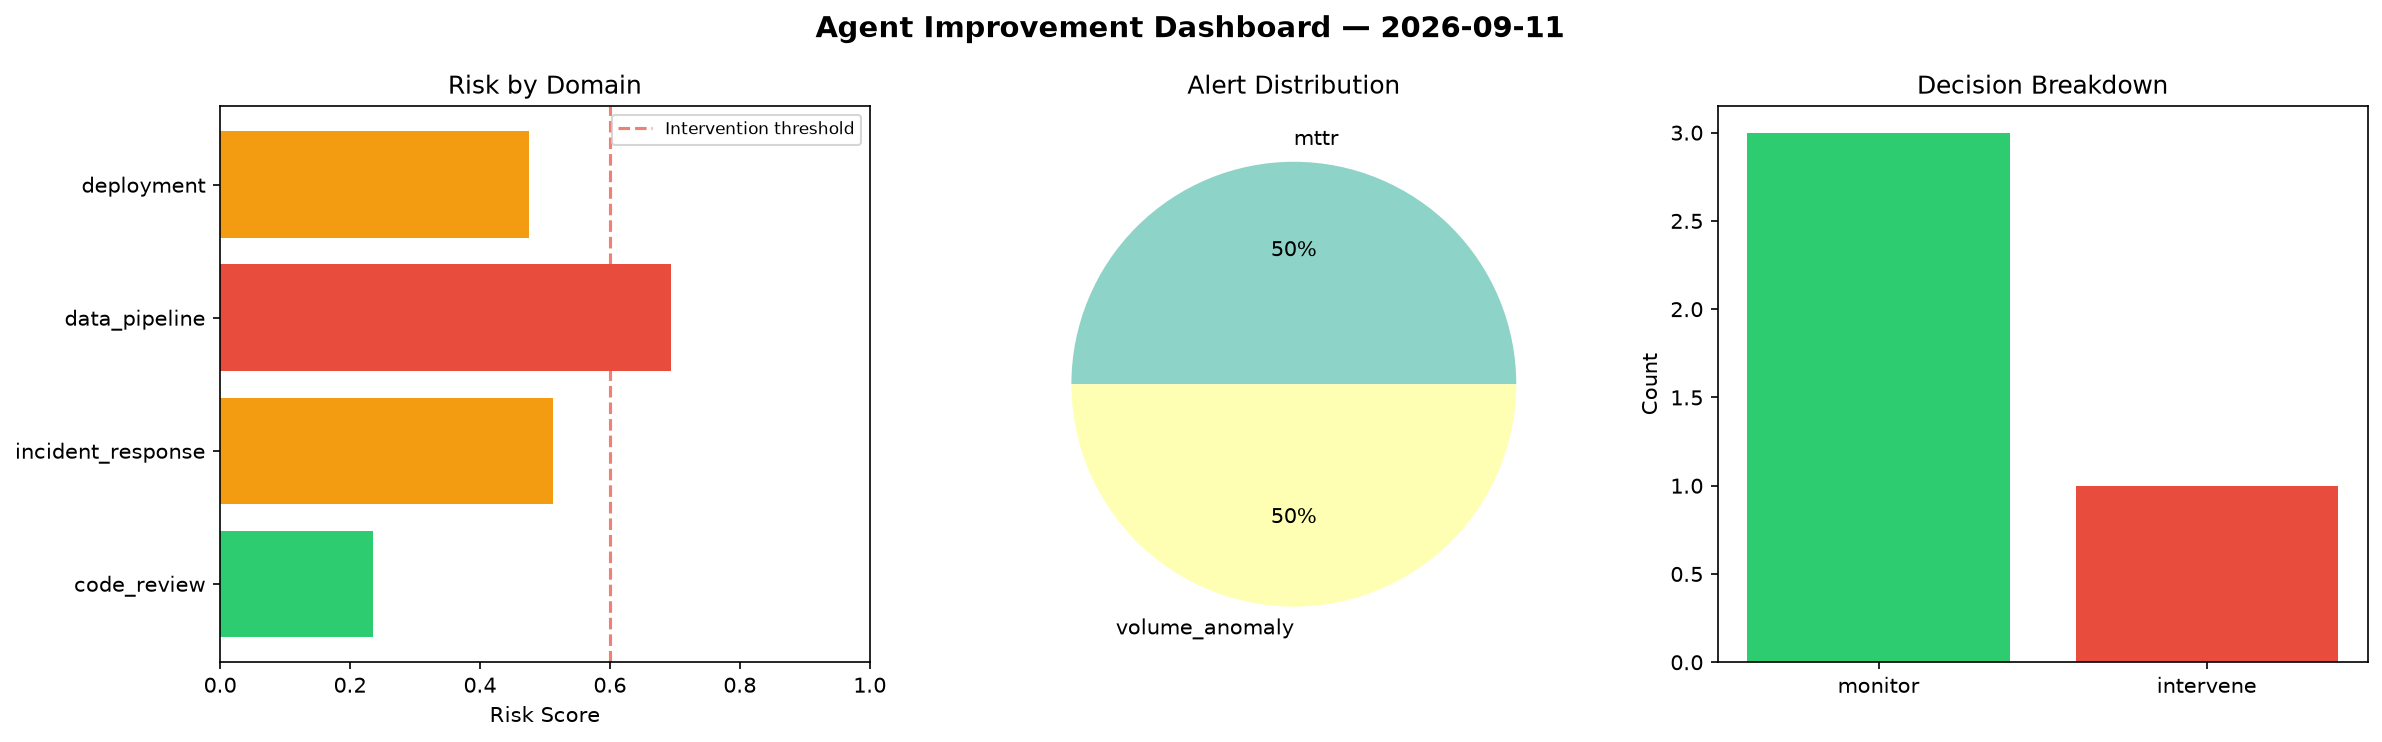
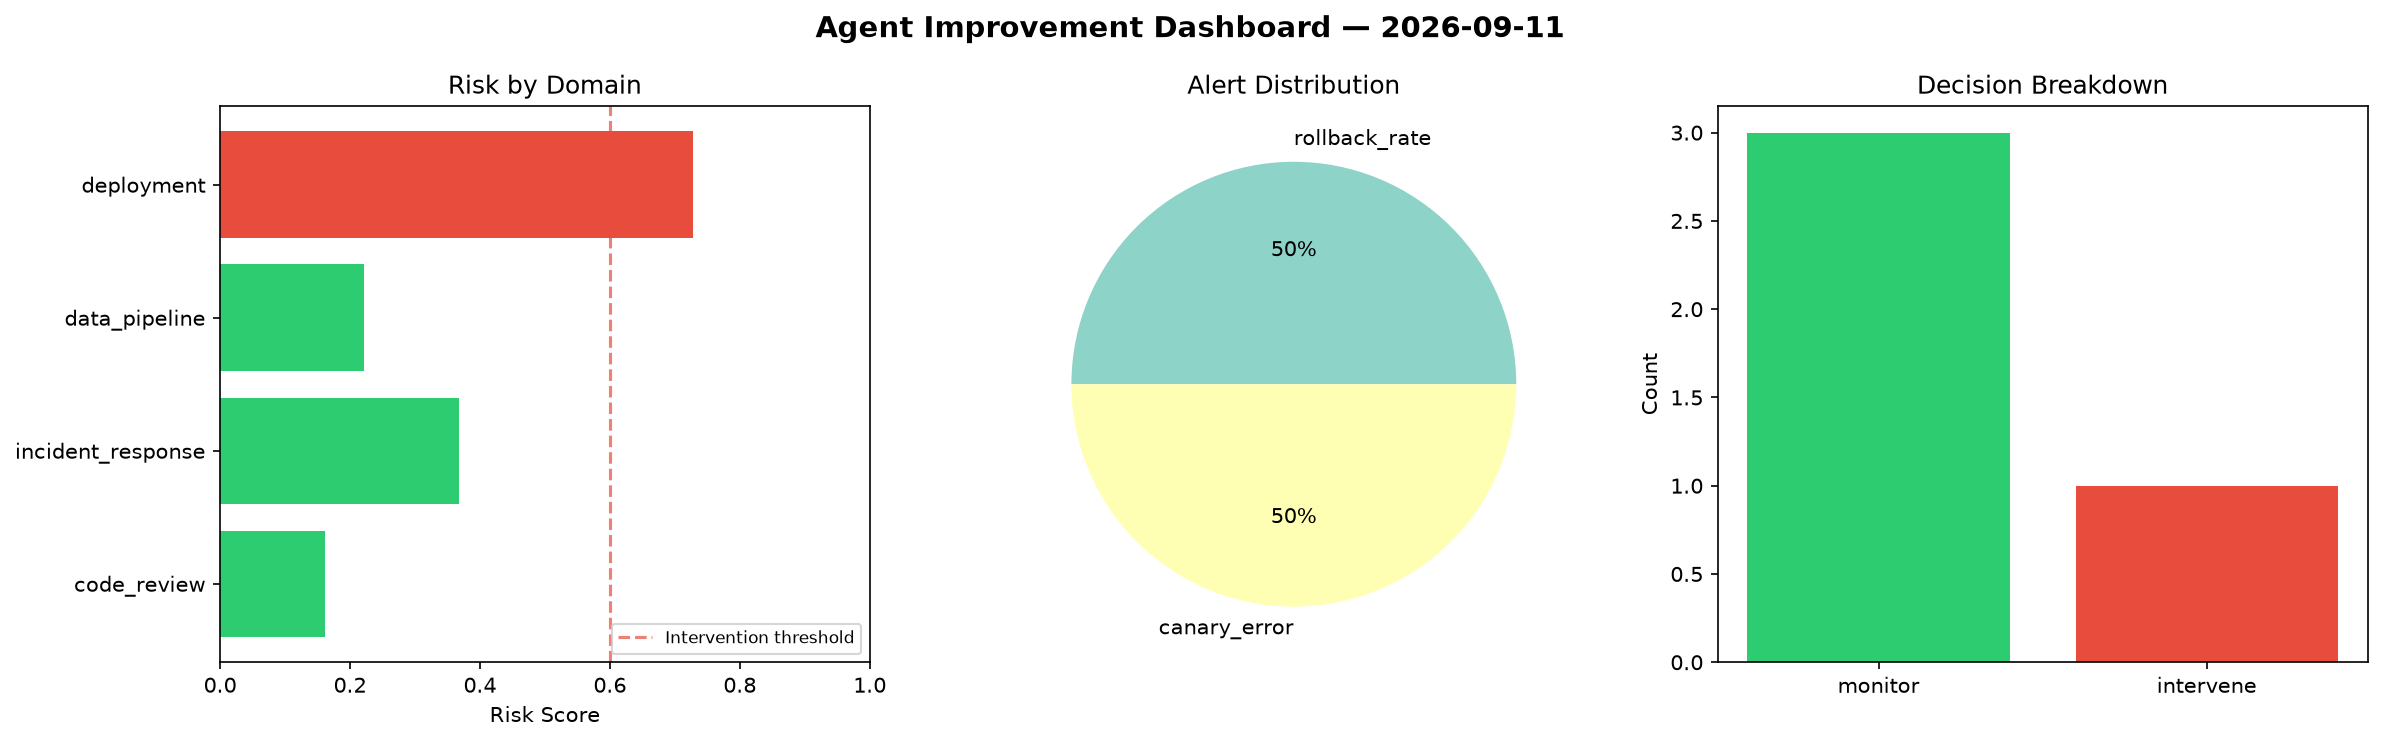
agent-improvement: daily cycle 2026-09-11T12:49

diff --git a/logs/2026-09-11.md b/logs/2026-09-11.md
@@ -1,6 +1,6 @@
 # Agent Improvement Report — 2026-09-11
 
-**Cycle ID:** `4babac8f` | **Avg Risk:** 0.479 | **Interventions:** 1/4
+**Cycle ID:** `2b0fe276` | **Avg Risk:** 0.3697 | **Interventions:** 1/4
 
 ![Dashboard](2026-09-11_dashboard.png)
 
@@ -10,18 +10,18 @@
 
 | Domain | Risk Score | Decision | Alerts |
 |--------|-----------|----------|--------|
-| code_review | 0.2348 | monitor | none |
-| incident_response | 0.5118 | monitor | mttr |
-| data_pipeline | 0.694 | intervene | volume_anomaly |
-| deployment | 0.4756 | monitor | none |
+| code_review | 0.162 | monitor | none |
+| incident_response | 0.3679 | monitor | none |
+| data_pipeline | 0.221 | monitor | none |
+| deployment | 0.7279 | intervene | rollback_rate, canary_error |
 
 ## Delta vs Yesterday
 
 | Domain | Today | Yesterday | Change |
 |--------|-------|-----------|--------|
-| code_review | 0.2348 | 0.5149 | 📉 -54.4% |
-| incident_response | 0.5118 | 0.5893 | 📉 -13.2% |
-| data_pipeline | 0.694 | 0.4921 | 📈 41.0% |
-| deployment | 0.4756 | 0.8968 | 📉 -47.0% |
+| code_review | 0.162 | 0.5149 | 📉 -68.5% |
+| incident_response | 0.3679 | 0.5893 | 📉 -37.6% |
+| data_pipeline | 0.221 | 0.4921 | 📉 -55.1% |
+| deployment | 0.7279 | 0.8968 | 📉 -18.8% |
 
 **Refinement:** `{'adjustment': 'tighten_thresholds', 'trend': 'degrading', 'window': 4}`
